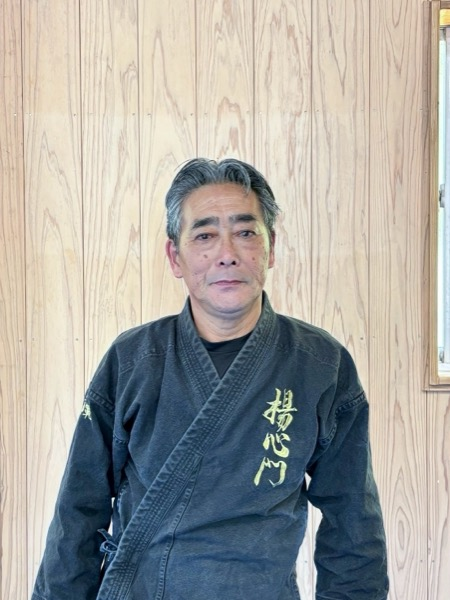
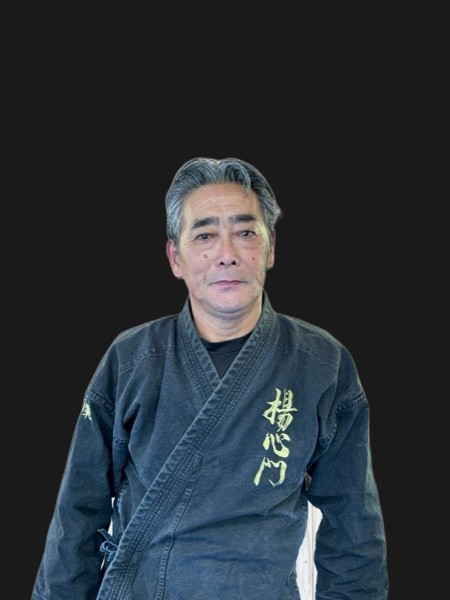
option2: 指導員写真の背景をダーク統一＋西牟田浩之の写真更新
- rembgで木壁背景を除去し、サイトのダーク背景(#1a1a1a)に統一
- 西牟田浩之の写真をIMG_1774に差し替え
- 対象: 田中、城戸﨑彰良、平良、田邉、南谷知宏、大堤、松元、
  城戸﨑愛紗、前田、相羽、西牟田の11名

diff --git a/option2/instructors.html b/option2/instructors.html
@@ -207,7 +207,7 @@
 
         <div class="card card--instructor">
           <div class="card__avatar-wrap">
-            <img src="assets/images/instructors/nishimuta_hiroyuki.jpg" alt="西牟田 浩之" style="transform: scale(2.8); transform-origin: 85% 90%;">
+            <img src="assets/images/instructors/nishimuta_hiroyuki.jpg" alt="西牟田 浩之" style="transform: scale(1.15); transform-origin: center 25%;">
           </div>
           <h3 class="card__name">西牟田 浩之</h3>
           <span class="card__role">鹿屋武道館指導員</span>
